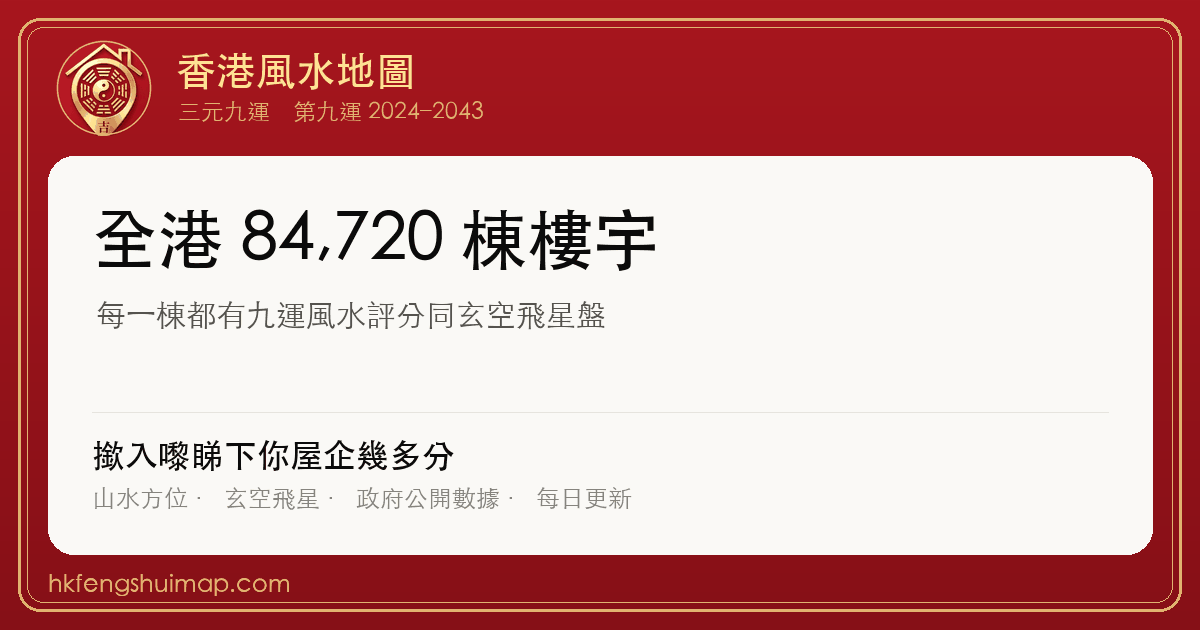
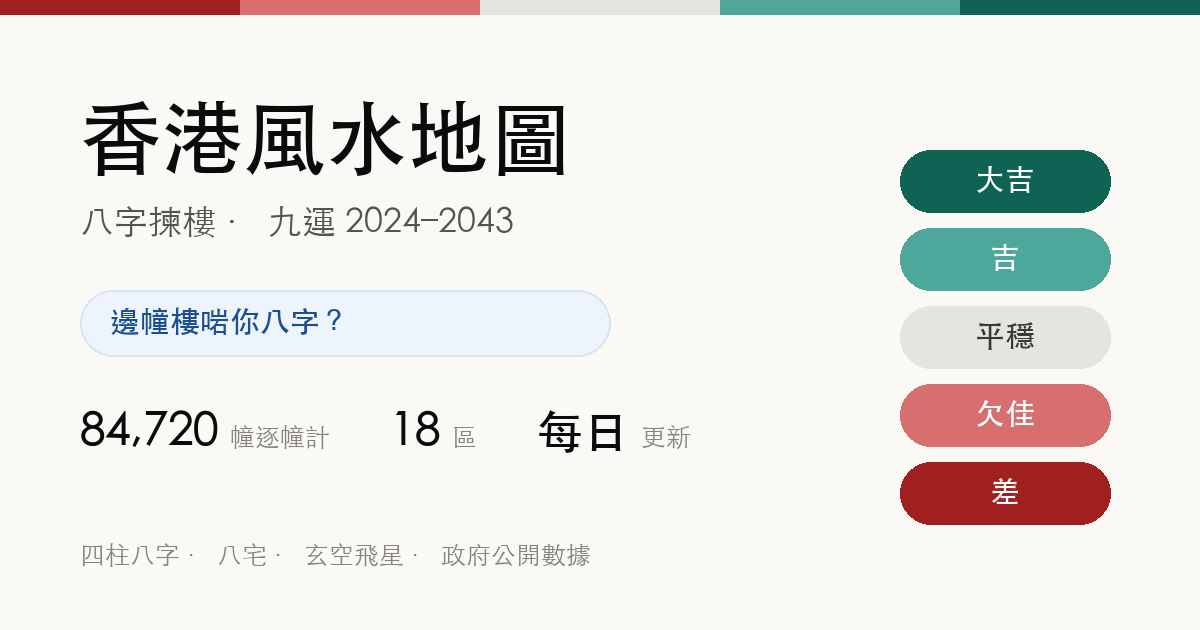
Aim the title at a query we can win, and split it from the share card
搵樓 was the wrong word to chase. It is what Hong Kong types, but the results
for it belong to 28Hse — which calls itself the No.1 property portal — with
中原 and 美聯 behind it. A new site does not take that word from three
portals with decades of domain authority, and traffic you cannot reach is
worth nothing.

揀樓 is where feng shui and property actually meet, and it has precedent:
李丞責 published 了解八字助揀樓, 白鶴鳴 publishes 揀樓攻略. 八字揀樓 has
intent, almost no competition, and describes exactly what this does.

The page title and the share card also stop being the same sentence, because
they are read in different places. Google gets 八字揀樓 first, since it is
deciding which queries this answers. WhatsApp gets 邊幢樓啱你八字？, since
nobody scrolling a chat is thinking about keywords.

The share image carried none of this — it said 213,328 buildings and asked how
many points your home scores, which is the answer everyone already shares. It
now asks whose chart the building suits.

diff --git a/index.html b/index.html
@@ -4,8 +4,8 @@
 <meta charset="utf-8">
 <meta name="viewport" content="width=device-width, initial-scale=1, viewport-fit=cover, maximum-scale=1">
 <meta name="theme-color" content="#0f6354">
-<title>香港風水地圖｜八字搵樓・全港樓宇風水評分</title>
-<meta name="description" content="打個八字入去，就知全港邊幾幢樓夾你自己。84,720 幢樓宇逐幢九運風水評分、玄空飛星盤、坐向，數據全部嚟自政府公開資料，每日更新。">
+<title>香港風水地圖｜八字揀樓・全港 84,720 幢逐幢計</title>
+<meta name="description" content="打個八字入去，就知全港邊幾幢樓啱你。84,720 幢樓宇逐幢九運風水評分、玄空飛星盤、坐向，數據全部嚟自政府公開資料，每日更新。">
 
 <!-- A link pasted into a Facebook group or WhatsApp is judged entirely on its
      preview card. og:image MUST be an absolute URL — crawlers do not resolve
@@ -58,14 +58,14 @@
 <meta property="og:type" content="website">
 <meta property="og:site_name" content="香港風水地圖">
 <meta property="og:url" content="https://hkfengshuimap.com/">
-<meta property="og:title" content="香港風水地圖｜八字搵樓">
-<meta property="og:description" content="打個八字入去，就知全港邊幾幢樓夾你自己。84,720 幢樓宇逐幢九運風水評分。">
+<meta property="og:title" content="邊幢樓啱你八字？香港風水地圖">
+<meta property="og:description" content="九運嘅好樓對大部分人好，唔代表對你好。打個八字入去，逐幢樓計返啱唔啱你。">
 <meta property="og:image" content="https://hkfengshuimap.com/og.png">
 <meta property="og:image:secure_url" content="https://hkfengshuimap.com/og.png">
 <meta property="og:image:type" content="image/png">
 <meta property="og:image:width" content="1200">
 <meta property="og:image:height" content="630">
-<meta property="og:image:alt" content="香港風水地圖 — 八字搵樓，全港逐幢評分">
+<meta property="og:image:alt" content="香港風水地圖 — 邊幢樓啱你八字">
 <meta property="og:locale" content="zh_HK">
 <meta name="twitter:card" content="summary_large_image">
 <meta name="twitter:title" content="香港風水地圖 · 九運">
@@ -3823,7 +3823,7 @@ async function showOverview(){
     <!-- 個名淨係講咗「係咩」，講唔到「做到乜」。香港人搵樓打嘅係「搵樓」
          （中原搵樓、美聯搵樓、搵樓街），唔係「風水地圖」—— 所以 tagline
          擺實質功能，順便講埋我哋同人哋唔同嗰樣：份 advice 係跟你個人嘅。 -->
-    <p class="tagline">八字搵樓 · 全港逐幢評分</p>
+    <p class="tagline">八字揀樓 · 全港 84,720 幢逐幢計</p>
     <p class="ben">${filtered
       ? `全港 ${rows.reduce((s,a)=>s+a.metric,0).toLocaleString()} 棟評為「${chipLabel()}」`
       : "全港 213,328 棟樓宇 · 平均 48.5 分 · 每日更新"}</p>
@@ -4886,10 +4886,10 @@ function shareList(){
    睇緊嗰幢樓，而嗰幢樓同佢完全無關。 */
 function shareApp(){
   doShare("香港風水地圖",
-    ["香港風水地圖",
+    ["邊幢樓啱你八字？",
      "",
-     "全港 84,720 棟樓宇，每一棟都有九運風水評分。",
-     "打你住緊嗰幢樓個名落去就睇到。",
+     "九運嘅好樓對大部分人好，唔代表對你好。",
+     "打個八字入去，全港 84,720 幢樓逐幢計返啱唔啱你。",
      "",
      "免費、免登記、免裝 App。"].join("\n"),
     location.origin + "/", "app");

diff --git a/pipeline/make_og.py b/pipeline/make_og.py
@@ -39,16 +39,17 @@ y = 96
 
 d.text((PAD, y), "香港風水地圖", font=f_title, fill=INK)
 y += 108
-d.text((PAD, y), "九運 2024–2043 · 逐棟樓宇評分", font=f_sub, fill=INK2)
+d.text((PAD, y), "八字揀樓 · 九運 2024–2043", font=f_sub, fill=INK2)
 y += 86
 
-# The hook, phrased as the question a reader answers by tapping.
-d.rounded_rectangle([PAD, y, PAD + 470, y + 66], radius=33, fill=(238, 244, 251),
+# 卡上面嗰句要講返我哋同人唔同嗰樣 —— 分數邊個睇都一樣，啱唔啱你先係
+# 得你一個人有。所以問句係「啱你八字」，唔係「幾多分」。
+d.rounded_rectangle([PAD, y, PAD + 530, y + 66], radius=33, fill=(238, 244, 251),
                     outline=(214, 228, 244), width=2)
-d.text((PAD + 30, y + 16), "睇下你屋企幾多分？", font=f_pill, fill=BRAND)
+d.text((PAD + 30, y + 16), "邊幢樓啱你八字？", font=f_pill, fill=BRAND)
 y += 118
 
-stats = [("213,328", "棟樓宇"), ("18", "區"), ("每日", "更新")]
+stats = [("84,720", "幢逐幢計"), ("18", "區"), ("每日", "更新")]
 x = PAD
 for value, label in stats:
     d.text((x, y), value, font=f_stat, fill=INK)
@@ -57,7 +58,7 @@ for value, label in stats:
     x = d.textbbox((x, y), value, font=f_stat)[2] + 12 + \
         d.textbbox((0, 0), label, font=f_lab)[2] + 60
 
-d.text((PAD, H - 88), "山水方位 · 玄空飛星 · 政府公開數據", font=f_lab, fill=INK3)
+d.text((PAD, H - 88), "四柱八字 · 八宅 · 玄空飛星 · 政府公開數據", font=f_lab, fill=INK3)
 
 # Score chips on the right, showing the colour language the map uses.
 cx, cy = W - 300, 150
